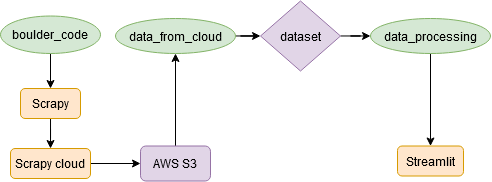
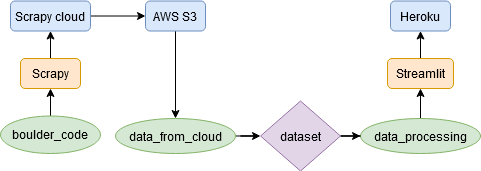
updated readme

diff --git a/README.md b/README.md
@@ -1,82 +1,44 @@
 # Boulder gym tracker project
 
-Overview of this project
+- [Boulder gym tracker project](#boulder-gym-tracker-project)
+  - [Scraping](#scraping)
+    - [Scrapy](#scrapy)
+    - [Scrapinghub/Zyte](#scrapinghubzyte)
+    - [AWS S3](#aws-s3)
+  - [Front-end and deployment](#front-end-and-deployment)
+    - [Streamlit](#streamlit)
+    - [Heroku](#heroku)
+  - [Resources](#resources)
 
 ![ ](boulder.png)
 
-Requirements for this project
+## Scraping
 
-```txt
-boto
-pyowm
-PyYAML
-scrapinghub
-```
-
-To play around a website with scrapy:
+Requirements
 
 ```bash
-scrapy shell https://www.website.com
+pip install scrapy
+pip install scrapinghub
 ```
 
-To run crawler locally and save item into `output.json`:
+### [Scrapy](https://scrapy.org/)
 
-```bash
-cd /path/to/project/
-scrapy crawl boulder -o output.json
-```
-
-If an external storage is defined (S3 from AWS for example):
-
-```bash
-cd /path/to/project/
-scrapy crawl boulder
-```
-
-To deploy to Scrapinghub:
-
-```bash
-cd /path/to/project/
-shub deploy
-```
-
-Download items from AWS bucket. First, install `awscli` and configure your credentials
-
-```bash
-pip install awscli
-aws configure
-```
-
-Enter the security credentials created in [AWS console](https://console.aws.amazon.com), click on your username at the top right, `My security credentials`, `Create new access key`. Enter your region as well. For me it's `eu-central-1`. Once this is done, to download to a specific folder, where `bboulder` is the bucket name in your AWS S3 account.
-
-```bash
-cd /path/to/project/
-mkdir awsdata
-cd awsdata
-aws s3 sync s3://bboulder .
-```
-
-Run `streamlit` script:
-
-```bash
-streamlit run your-file.py
-```
-
-## Tools used
-
-* [Scrapy for Python](https://scrapy.org/): [documentation](https://doc.scrapy.org/)
 * [Scrapinghub](https://www.scrapinghub.com/scrapy-cloud/): [documentation](https://doc.scrapinghub.com/scrapy-cloud.html)
 * [PyOWM](https://github.com/csparpa/pyowm)
   * Set `OWM_API` in settings, either settings.py in local or Spider settings in Scrapinghub
-* [AWS S3](https://aws.amazon.com/s3/)
-  * Set `AWS_ACCESS_KEY_ID`, `AWS_SECRET_ACCESS_KEY`, `FEED_URI = 's3://your-bucket/%(time)s.csv'` in settings as stated in the [documentation](https://doc.scrapy.org/en/latest/topics/feed-exports.html#s3)
-* [Streamlit](https://streamlit.io/)
 
----------
+```bash
+# play around a website with scrapy
+scrapy shell https://www.website.com
+# run crawler locally and save item into `output.json`
+scrapy crawl boulder -o output.json
+# If an external storage is defined (S3 from AWS for example):
+scrapy crawl boulder
+```
 
-## Resources
+### [Scrapinghub/Zyte](https://www.zyte.com/)
 
-### Environment variables in Scrapinghub
+> Environment variables in Scrapinghub
 
 1. Go to Spiders, click on your spider, raw settings and save your variable in this format
    1. `API = '123'`
@@ -85,12 +47,89 @@ streamlit run your-file.py
    2. [How to access settings](https://doc.scrapy.org/en/latest/topics/settings.html)
 3. Deploy the code, delete the periodic jobs, start it again
 
-### Legal info about scraping/crawling
+To deploy to [Scrapinghub](https://app.zyte.com/p/471449/jobs), the spider and app must be created beforehand:
+
+```bash
+shub deploy
+```
+
+### [AWS S3](https://aws.amazon.com/s3/)
+
+Requirements
+
+```bash
+pip install awscli
+pip install boto3
+```
+
+Set the environment variables `AWS_ACCESS_KEY_ID`, `AWS_SECRET_ACCESS_KEY`, `FEED_URI = 's3://your-bucket/%(time)s.csv'` in Scrapinghub settings as stated in the [documentation](https://doc.scrapy.org/en/latest/topics/feed-exports.html#s3)
+
+To download items from AWS bucket, first, configure your credentials
+
+```bash
+aws configure
+```
+
+Enter the security credentials created in [AWS console](https://console.aws.amazon.com), click on your username at the top right, `My security credentials`, `Create new access key`. Enter your region as well. For me it's `eu-central-1`. Once this is done, to download to a specific folder, where `bboulder` is the bucket name in your AWS S3 account.
+
+```bash
+mkdir awsdata
+cd awsdata
+aws s3 sync s3://bboulder .
+```
+
+Or run `python src/data_from_cloud.py`, which downloads the objects from S3 and merges them with the existing .csv.
+
+## Front-end and deployment
+
+Requirements
+
+```bash
+pip install streamlit
+pip install heroku
+```
+
+### [Streamlit](https://streamlit.io/)
+
+Run streamlit locally
+
+```bash
+streamlit run app.py
+```
+
+Streamlit supports [Streamlit Sharing](https://www.streamlit.io/sharing), an easy way to deploy Streamlit apps. But as of now they have a storage limitation, which is why this app has been deployed in Heroku.
+
+### [Heroku](https://devcenter.heroku.com/)
+
+* [Create app in Heroku](https://dashboard.heroku.com) and set a name
+* Create Dockerfile
+  * Add specific streamlit commands, echo `$PORT` ([important](https://discuss.streamlit.io/t/deploying-heroku-error/1310/3)! The app might not recognize the port otherwise)
+  * **Install dependencies before copying files**: see [Layer caching in this Medium post](https://blog.realkinetic.com/building-minimal-docker-containers-for-python-applications-37d0272c52f3)
+  * When connecting to heroku, use `container:`
+
+```bash
+# attach project to heroku app
+heroku git:remote -a bouldergym
+# log in with the CLI
+heroku container:login
+# push changes to heroku
+heroku container:push web
+# release app
+heroku container:release web
+# to scale it down=shut it off, web=0. To scale it back up, web=1
+heroku ps:scale web=0
+# to check logs
+heroku logs --tail
+```
+
+---------
+
+## Resources
+
+Legal info about scraping/crawling
 
 1. [Web Scraping and Crawling Are Perfectly Legal, Right?](https://benbernardblog.com/web-scraping-and-crawling-are-perfectly-legal-right/)
 2. [robots.txt file](https://www.boulderwelt-muenchen-ost.de/robots.txt) doesn't disallow scraping the main webpage.
 3. No prohibitions in AGB or Datenschutzerklärung. No Nutzunsbedingungen
-
----
 
 Estimation of circa 300 people for 59% of whole capacity (corona capacity).
